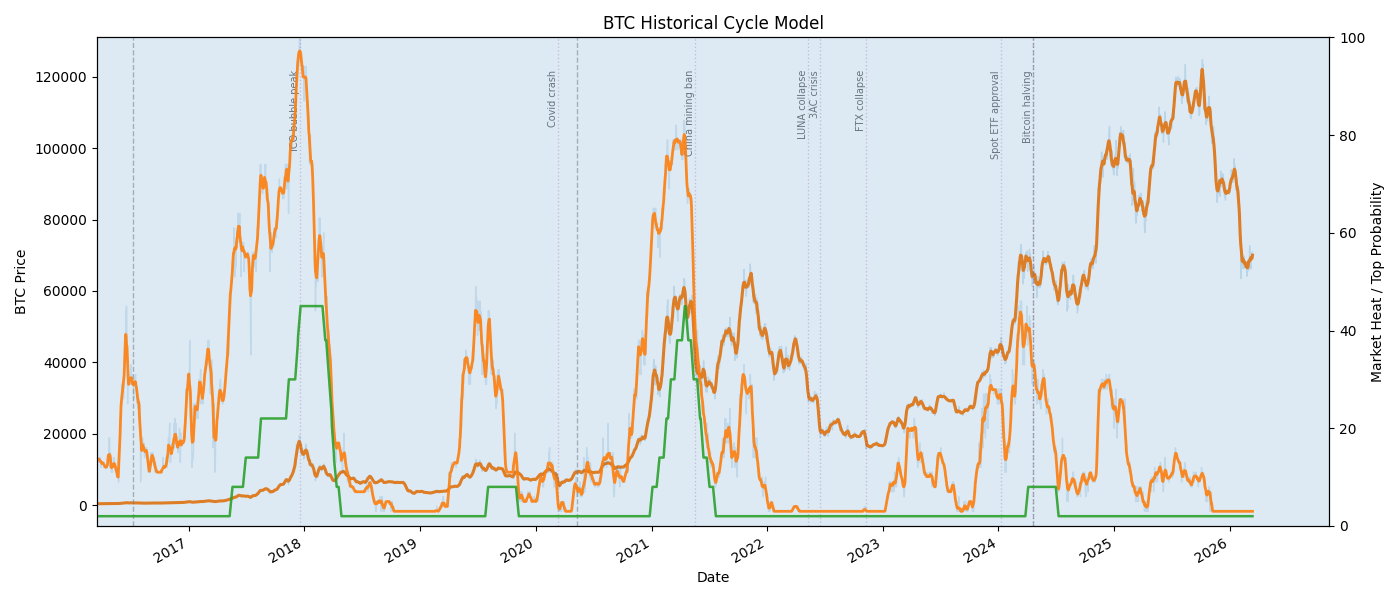
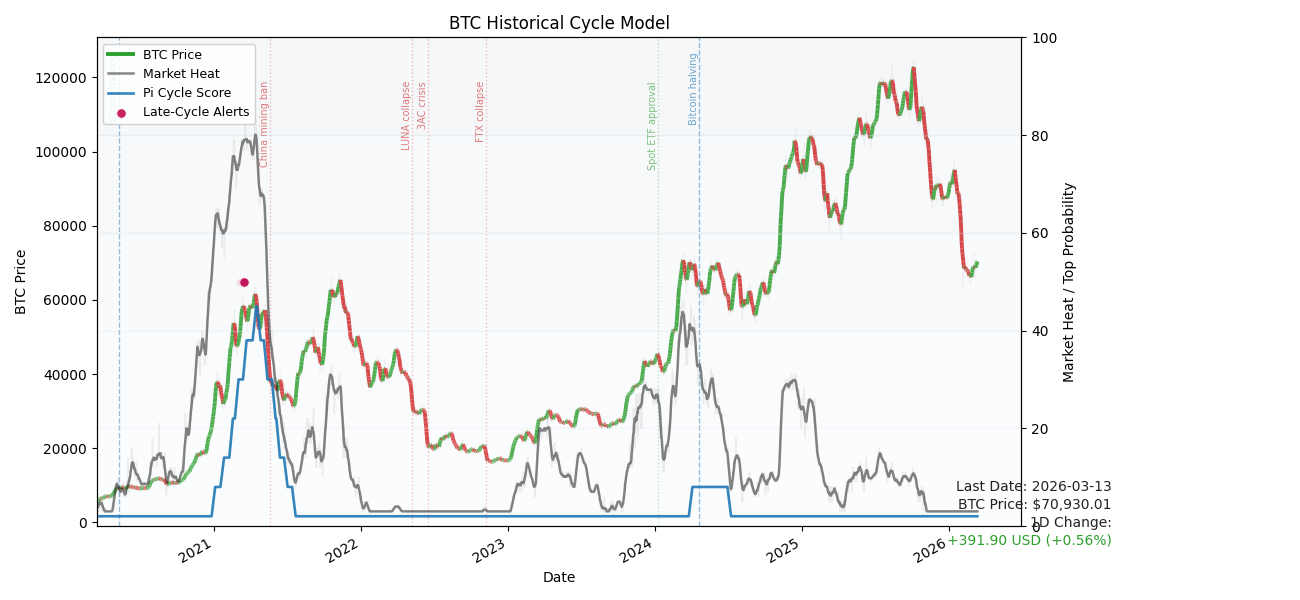
Chart updates, probability adjustments, and backfill history import.

diff --git a/app/chart.py b/app/chart.py
@@ -2,6 +2,8 @@ import json
 from datetime import datetime, timedelta
 
 import matplotlib.pyplot as plt
+from matplotlib.collections import LineCollection
+import matplotlib.dates as mdates
 
 from app.market_events import EVENTS
 
@@ -43,51 +45,109 @@ def _load_history():
 
     return parsed
 
+def _smooth_series(values, window=5):
+    if not values:
+        return values
+
+    out = []
+    half = window // 2
+
+    for i in range(len(values)):
+        start = max(0, i - half)
+        end = min(len(values), i + half + 1)
+        chunk = [v for v in values[start:end] if v is not None]
+        out.append(sum(chunk) / len(chunk) if chunk else None)
+
+    return out
+
+
+def _plot_colored_price_line(ax, dates, prices, linewidth=2.2, alpha=1.0):
+    if len(dates) < 2:
+        ax.plot(dates, prices, linewidth=linewidth, alpha=alpha)
+        return
+
+    x = mdates.date2num(dates)
+    points = list(zip(x, prices))
+
+    segments = []
+    colors = []
+
+    for i in range(len(points) - 1):
+        p1 = points[i]
+        p2 = points[i + 1]
+        segments.append([p1, p2])
+
+        if p2[1] >= p1[1]:
+            colors.append("#2ca02c")  # green up
+        else:
+            colors.append("#d62728")  # red down
+
+    lc = LineCollection(segments, colors=colors, linewidths=linewidth, alpha=alpha)
+    ax.add_collection(lc)
+    ax.autoscale_view()
+
 def generate_history_chart():
     data = _load_history()
 
-    cutoff = datetime.now() - timedelta(days=365 * 10)
+    cutoff = datetime.now() - timedelta(days=365 * 6)
     data = [x for x in data if x["date"] >= cutoff]
 
     dates = [x["date"] for x in data]
     prices_raw = [x["btc_price"] for x in data]
     heat_raw = [x["market_heat"] for x in data]
     pi_cycle_raw = [x["pi_cycle_score"] for x in data]
-    top_prob_raw = [x["top_probability"] if x["top_probability"] >= 80 else None for x in data]
+    top_prob_markers = [x["top_probability"] if x["top_probability"] >= 50 else None for x in data]
 
-    prices = _smooth_series(prices_raw, window=9)
+    prices = _smooth_series(prices_raw, window=7)
     heat = _smooth_series(heat_raw, window=9)
     pi_cycle = _smooth_series(pi_cycle_raw, window=9)
 
-    fig, ax1 = plt.subplots(figsize=(14, 6))
+    fig, ax1 = plt.subplots(figsize=(13, 6))
 
-    # price raw + smooth
-    ax1.plot(dates, prices_raw, linewidth=1, alpha=0.18)
-    ax1.plot(dates, prices, linewidth=2.2)
+    # reserve space on the right for info box
+    fig.subplots_adjust(right=0.84)
+
+    # faint raw BTC line
+    ax1.plot(dates, prices_raw, color="#c7c7c7", linewidth=1, alpha=0.18)
+
+    # main BTC line: green up / red down
+    _plot_colored_price_line(ax1, dates, prices, linewidth=2.8, alpha=1.0)
+    ax1.plot([], [], color="#2ca02c", linewidth=2.8, label="BTC Price")
+
     ax1.set_ylabel("BTC Price")
     ax1.set_xlabel("Date")
 
     ax2 = ax1.twinx()
 
-    # heat zones
-    ax2.axhspan(0, 20, alpha=0.15)
-    ax2.axhspan(20, 40, alpha=0.15)
-    ax2.axhspan(40, 60, alpha=0.15)
-    ax2.axhspan(60, 80, alpha=0.15)
-    ax2.axhspan(80, 100, alpha=0.15)
+    # Heat zones background - soft / neutral
+    ax2.axhspan(0, 20, color="#eef3f7", alpha=0.18)
+    ax2.axhspan(20, 40, color="#e6edf3", alpha=0.18)
+    ax2.axhspan(40, 60, color="#dde6ee", alpha=0.18)
+    ax2.axhspan(60, 80, color="#d5dfe8", alpha=0.18)
+    ax2.axhspan(80, 100, color="#cdd8e2", alpha=0.18)
 
-    # heat raw + smooth
-    ax2.plot(dates, heat_raw, linewidth=1, alpha=0.15)
-    ax2.plot(dates, heat, linewidth=2, alpha=0.9)
-    ax2.plot(dates, pi_cycle, linewidth=1.8, alpha=0.9)
+    # secondary metrics
+    ax2.plot(dates, heat_raw, color="#666666", linewidth=1, alpha=0.10)
+    ax2.plot(dates, heat, color="#111111", linewidth=1.8, alpha=0.50, label="Market Heat")
+    ax2.plot(dates, pi_cycle, color="#1f77b4", linewidth=1.9, alpha=0.90, label="Pi Cycle Score")
 
-    # top spikes
-    ax2.scatter(dates, top_prob_raw, s=18, zorder=5)
+    # late-cycle alert markers only
+    ax2.scatter(
+        dates,
+        top_prob_markers,
+        color="#c2185b",          # dark pink
+        edgecolors="white",
+        linewidths=0.7,
+        s=48,
+        zorder=6,
+        alpha=0.95,
+        label="Late-Cycle Alerts",
+    )
 
     ax2.set_ylabel("Market Heat / Top Probability")
     ax2.set_ylim(0, 100)
 
-    # halving lines
+    # halving lines (blue)
     halving_dates = [
         datetime(2012, 11, 28),
         datetime(2016, 7, 9),
@@ -96,33 +156,89 @@ def generate_history_chart():
     ]
 
     for h in halving_dates:
-        ax1.axvline(h, linestyle="--", linewidth=1, color="gray", alpha=0.55)
+        if h >= cutoff:
+            ax1.axvline(h, linestyle="--", linewidth=1, color="#1f77b4", alpha=0.55)
+            ax1.text(
+                h,
+                ax1.get_ylim()[1] * 0.97,
+                "Bitcoin halving",
+                rotation=90,
+                fontsize=7,
+                color="#1f77b4",
+                alpha=0.75,
+                verticalalignment="top",
+                horizontalalignment="right",
+            )
 
-    # major market events
-    for date_str, label in EVENTS.items():
-        event_dt = datetime.strptime(date_str, "%Y-%m-%d")
+    # events: positive green, negative red
+    for event in EVENTS:
+        event_dt = datetime.strptime(event["date"], "%Y-%m-%d")
         if event_dt < cutoff:
             continue
 
-        ax1.axvline(event_dt, linestyle=":", linewidth=1, color="purple", alpha=0.22)
+        color = "#2ca02c" if event["type"] == "positive" else "#d62728"
+
+        ax1.axvline(event_dt, linestyle=":", linewidth=1, color=color, alpha=0.35)
         ax1.text(
             event_dt,
-            ax1.get_ylim()[1] * 0.93,
-            label,
+            ax1.get_ylim()[1] * 0.91,
+            event["label"],
             rotation=90,
             fontsize=7,
-            alpha=0.55,
+            color=color,
+            alpha=0.72,
             verticalalignment="top",
             horizontalalignment="right",
         )
+
+    # combined legend
+    handles1, labels1 = ax1.get_legend_handles_labels()
+    handles2, labels2 = ax2.get_legend_handles_labels()
+
+    if handles1 or handles2:
+        ax2.legend(
+            handles1 + handles2,
+            labels1 + labels2,
+            loc="upper left",
+            framealpha=0.88,
+            fontsize=9,
+        )
+
+    # latest BTC status text OUTSIDE the chart
+    last_date = dates[-1]
+    last_price = prices_raw[-1]
+    prev_price = prices_raw[-2] if len(prices_raw) >= 2 else prices_raw[-1]
+
+    daily_change_usd = last_price - prev_price
+    daily_change_pct = ((last_price - prev_price) / prev_price * 100) if prev_price else 0.0
+
+    if daily_change_usd >= 0:
+        change_color = "#2ca02c"
+    else:
+        change_color = "#d62728"
+
+    # static labels
+    fig.text(0.855, 0.20, f"Last Date: {last_date.strftime('%Y-%m-%d')}",
+             fontsize=10, ha="right", va="top", color="#222222")
+    fig.text(0.855, 0.17, f"BTC Price: ${last_price:,.2f}",
+             fontsize=10, ha="right", va="top", color="#222222")
+
+    # colored daily change
+    fig.text(0.855, 0.14, "1D Change:",
+             fontsize=10, ha="right", va="top", color="#222222")
+    fig.text(0.855, 0.11,
+             f"{daily_change_usd:+,.2f} USD ({daily_change_pct:+.2f}%)",
+             fontsize=10, ha="right", va="top", color=change_color)
 
     ax1.set_xlim(left=cutoff)
 
     fig.autofmt_xdate()
     plt.title("BTC Historical Cycle Model")
-    plt.tight_layout()
+    plt.tight_layout(rect=[0, 0, 0.84, 1])
     plt.savefig("chart_history.png")
     plt.close()
+
+    
 
 def generate_current_chart(days: int = 90):
     data = _load_history()
@@ -205,7 +321,7 @@ def generate_current_chart(days: int = 90):
     ax2.scatter([dates[-1]], [action_score[-1]], s=45, zorder=5)
     ax2.scatter([dates[-1]], [bottom_prob[-1]], s=35, zorder=5)
     ax2.scatter([dates[-1]], [local_top_prob[-1]], s=35, zorder=5)
-
+    ax2.scatter([dates[-1]], [cycle_top_prob[-1]], s=35, zorder=5, color="#c2185b")
     ax2.set_ylabel("Action / Probability")
     ax2.set_ylim(0, 100)
 

diff --git a/app/market_events.py b/app/market_events.py
@@ -1,12 +1,10 @@
-EVENTS = {
-    "2013-04-10": "MtGox crash",
-    "2017-12-17": "ICO bubble peak",
-    "2020-03-12": "Covid crash",
-    "2021-05-19": "China mining ban",
-    "2022-05-09": "LUNA collapse",
-    "2022-06-18": "3AC crisis",
-    "2022-11-08": "FTX collapse",
-    "2024-01-10": "Spot ETF approval",
-    "2024-04-20": "Bitcoin halving",
-}
-
+EVENTS = [
+    {"date": "2013-04-10", "label": "MtGox crash", "type": "negative"},
+    {"date": "2017-12-17", "label": "ICO bubble peak", "type": "negative"},
+    {"date": "2020-03-12", "label": "Covid crash", "type": "negative"},
+    {"date": "2021-05-19", "label": "China mining ban", "type": "negative"},
+    {"date": "2022-05-09", "label": "LUNA collapse", "type": "negative"},
+    {"date": "2022-06-18", "label": "3AC crisis", "type": "negative"},
+    {"date": "2022-11-08", "label": "FTX collapse", "type": "negative"},
+    {"date": "2024-01-10", "label": "Spot ETF approval", "type": "positive"},
+]

diff --git a/next.md b/next.md
@@ -162,3 +162,117 @@ chart export
 subscription model
 6⃣
 web dashboard
+
+
+# Next day 15.3.2025
+Pokračujeme v projektu BTC Top Watcher.
+
+Repo:
+https://github.com/zanigmj-code/Btc-top-watcher
+
+Projekt:
+Python aplikace, která analyzuje BTC cyklus a generuje grafy.
+
+Používáme 4 hlavní indikátory:
+
+1) Pi Cycle Score
+2) Rainbow Heat
+3) MVRV approximation
+4) Puell approximation
+
+Z nich počítáme:
+
+Market Heat
+Top Probability
+Late-Cycle Alerts
+
+Grafy které generujeme:
+
+1) BTC Historical Cycle Model
+2) BTC Action Radar (90 days)
+
+Aktuální stav projektu:
+
+- historický graf funguje
+- zobrazuje posledních 6 let
+- BTC line je zelená/červená
+- Market Heat je černý
+- Pi Cycle je modrý
+- Late-Cycle Alerts jsou růžové tečky (threshold 50)
+
+Testovali jsme všechny kombinace indikátorů (15 kombinací)
+a zjistili jsme, že většina funguje podobně.
+
+Závěr:
+model zatím neindikuje cycle top.
+
+Další krok:
+
+1) přidat liquidity faktor (Global M2 / liquidity index)
+2) upravit graf tak aby vysvětlení a poslední cena byly pod grafem
+3) zlepšit interpretaci signálů (buy / reduce / exit)
+
+Prosím pokračuj odtud.
+
+NEXT DEVELOPMENT
+
+1) move price status under charts
+2) improve chart readability for telegram
+3) test indicator combinations performance
+4) add liquidity indicator (global M2)
+5) experiment with liquidity-adjusted cycle model
+6) improve action radar buy/sell logic
+7) add explanation block under charts
+
+Current BTC price ≈ 70k
+cycle phase: early bull
+top probability low
+late cycle alerts threshold = 50
+
+mozna zakomponovat btc liqidity Cycle Model
+
+
+
+přidat a upravit strukturu
+
+docs/
+
+model.md
+indikatory.md
+grafy.md
+roadmap.md
+
+| soubor          | význam                         |
+| --------------- | ------------------------------ |
+| `models.py`     | datové struktury               |
+| `indicators.py` | výpočty indikátorů             |
+| `docs/model.md` | vysvětlení ekonomického modelu |
+
+docs model.md vysvětlení
+
+BTC TOP WATCHER MODEL
+
+Inputs:
+
+1) Pi Cycle
+2) Rainbow Heat
+3) MVRV approximation
+4) Puell approximation
+
+Output:
+
+Market Heat
+Top Probability
+Cycle Phase
+Trade Action
+
+Score interpretation
+
+0–25 undervalued
+25–40 early bull
+40–50 warm
+50–65 late cycle
+65–80 danger
+80+ extreme top risk
+
+Celková změna jmena aplikace..

diff --git a/README.md b/README.md
@@ -22,7 +22,3 @@ Indicator Breakdown
 
 ## Usage
 
-Run manually:
-
-```bash
-python btc_top_watcher.py --once
